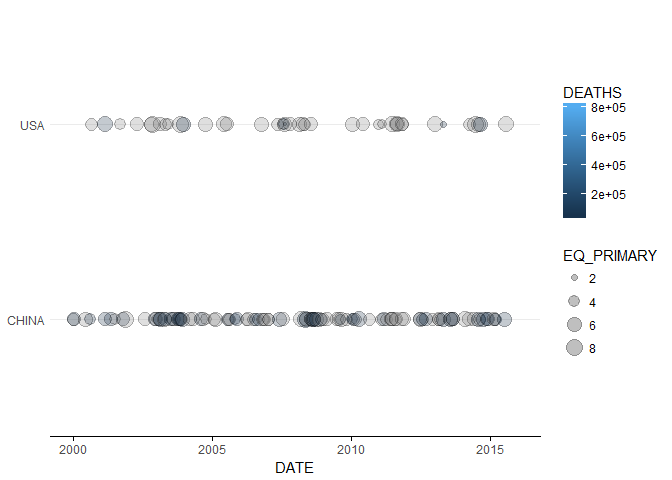
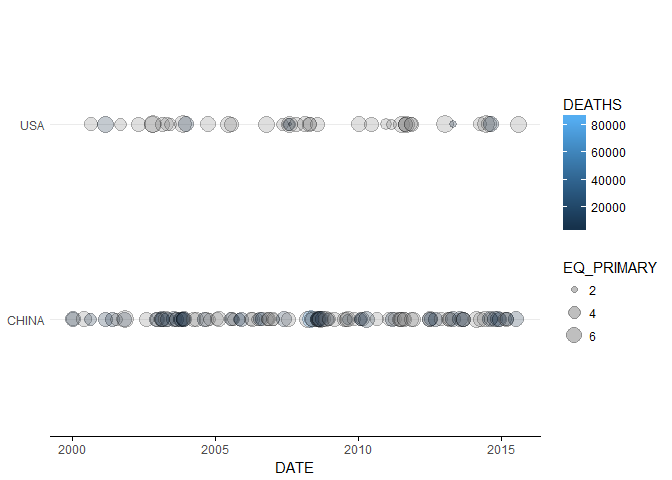
Timeline geom ready

diff --git a/README.md b/README.md
@@ -77,15 +77,13 @@ clean %>%
   filter(COUNTRY %in% c('USA', 'CHINA')) %>%
 
   ggplot(aes(x = DATE, y = COUNTRY, size=EQ_PRIMARY, fill = DEATHS)) +
-    geom_timeline(alpha = 0.25) +
-    xlim(ymd('2000-01-01'), ymd('2015-12-31')) +
+    geom_timeline(alpha = 0.25, xmin = ymd('2000-01-01'), xmax = ymd('2015-12-31')) +
     theme_minimal() + theme(panel.grid.minor.x = element_blank(),
                             panel.grid.major.x = element_blank(),
                             axis.line.y = element_blank(),
                             axis.title.y = element_blank(),
                             axis.line.x = element_line(),
                             axis.ticks.x = element_line())
-#> Warning: Removed 686 rows containing missing values (geom_timeline).
 ```
 
 ![](README-geom_timeline-1.png)
